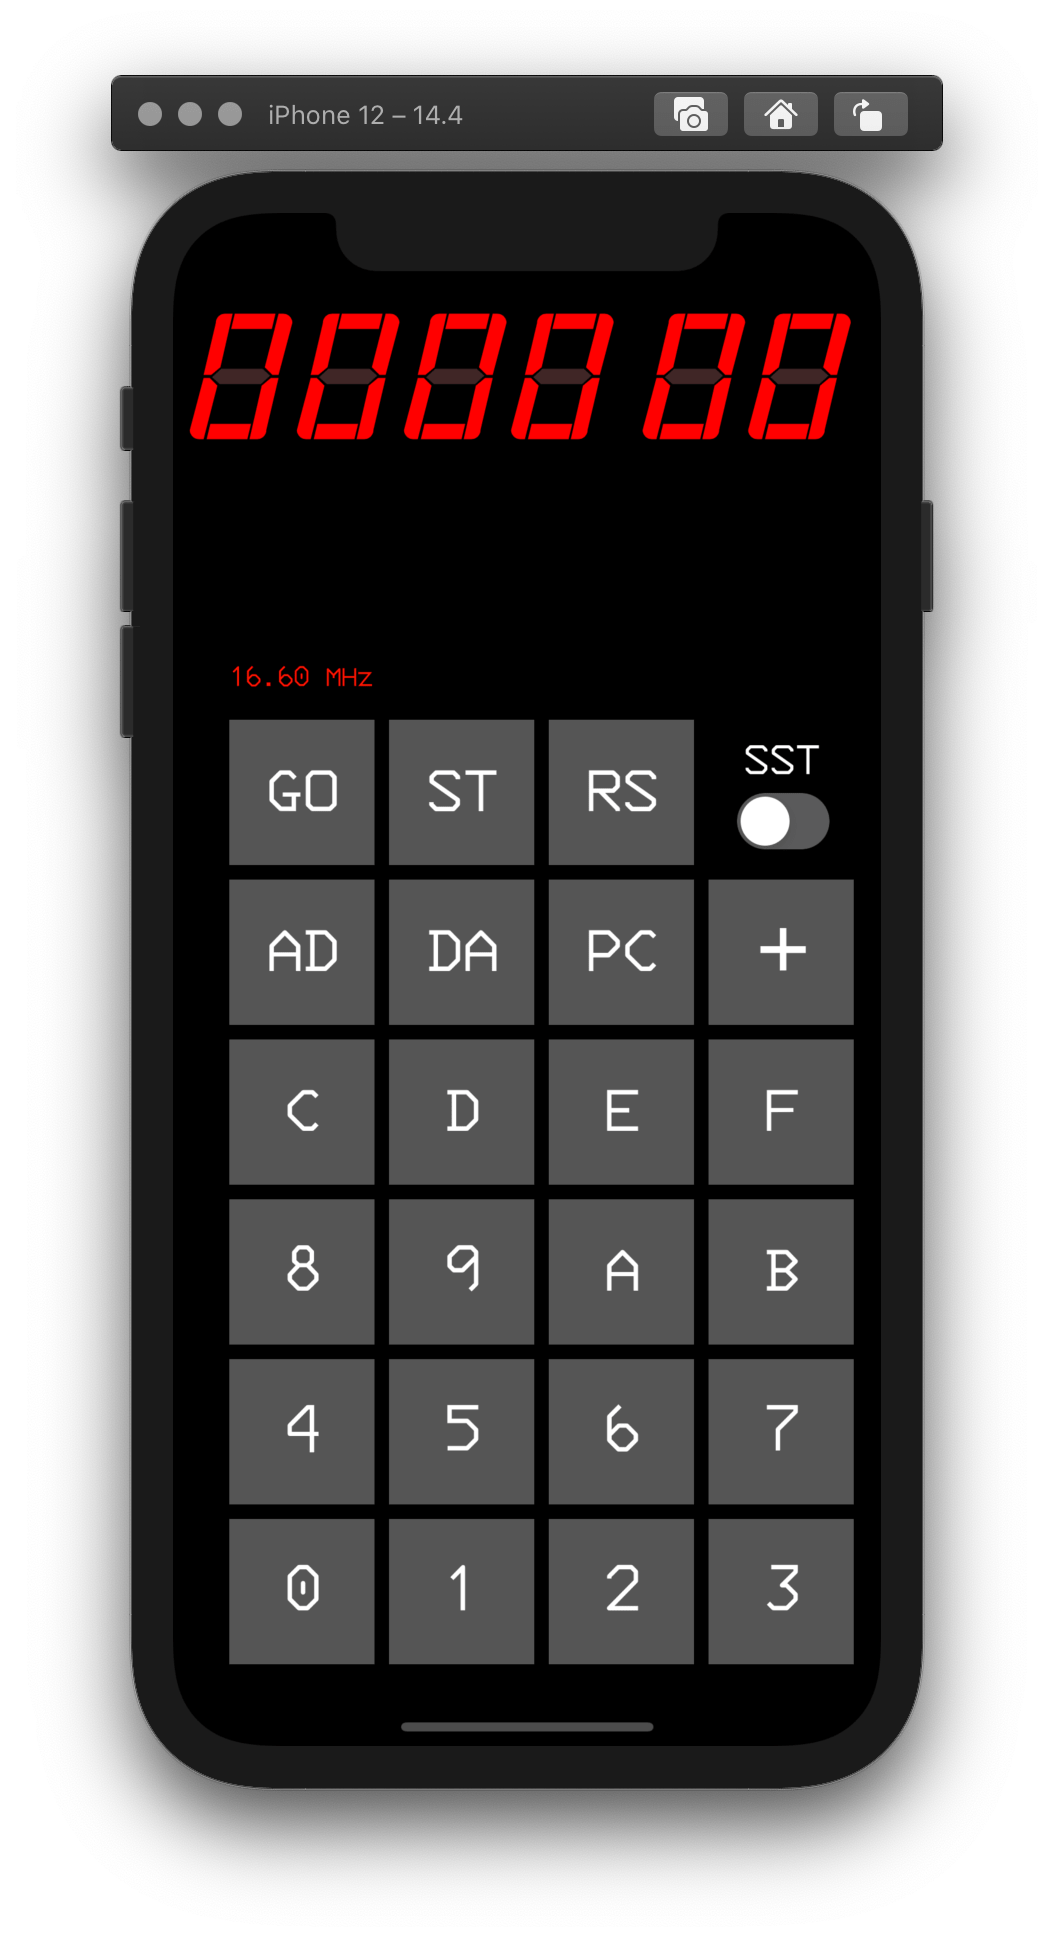
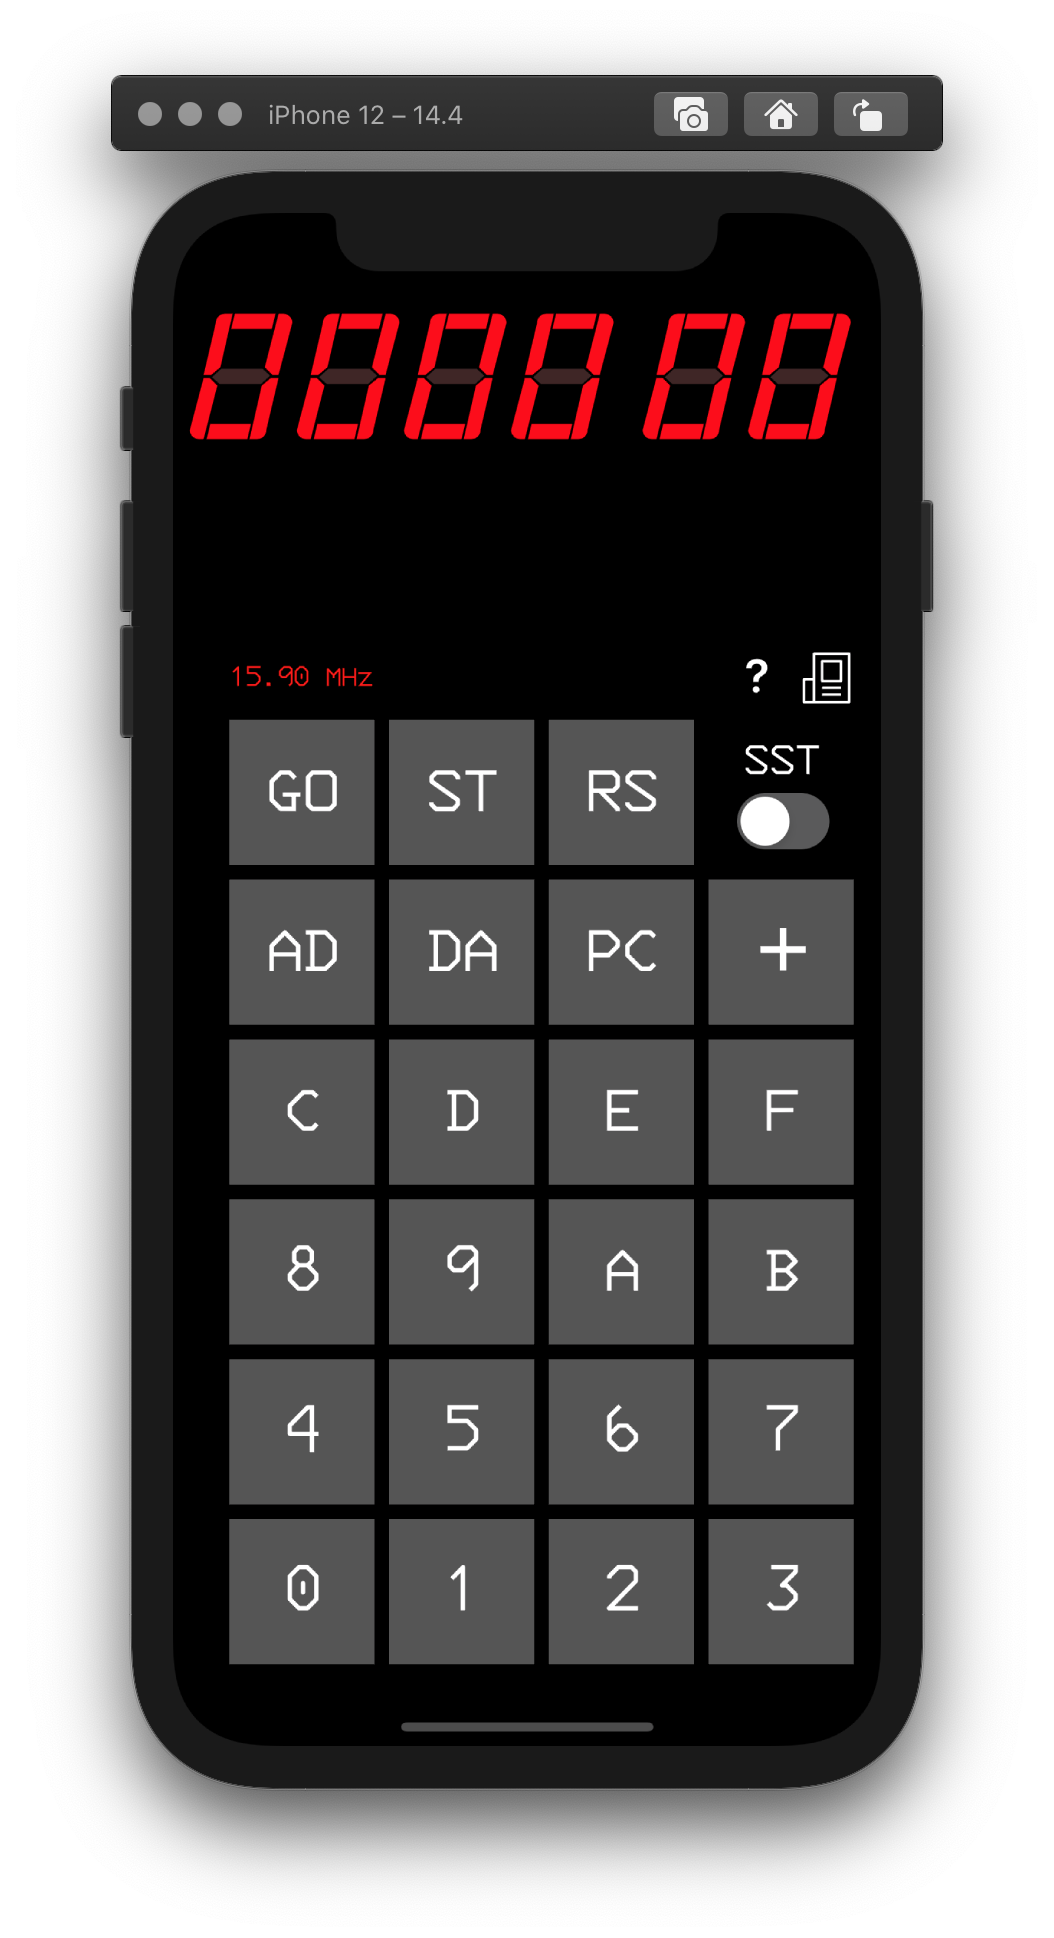
more screenshots

diff --git a/README.md b/README.md
@@ -6,6 +6,10 @@ is a MOS Kim-1 emulator for iOS (from iOS 9.3) and MacOS (from MacOS 10.15)
 <img alt="Startup interface" src="img/sc1.png" title="Startup interface" width="300px" hspace="30px" />
 <img alt="Running interface" src="img/sc2.png" title="Startup interface" width="300px" hspace="30px" />
 </p>
+<p align="center">
+<img alt="Help screen" src="img/sc4.png" title="Help screen" width="300px" hspace="30px" />
+<img alt="Serial mode" src="img/sc5.png" title="Serial mode" width="300px" hspace="30px" />
+</p>
 
 
 <p align="center">
